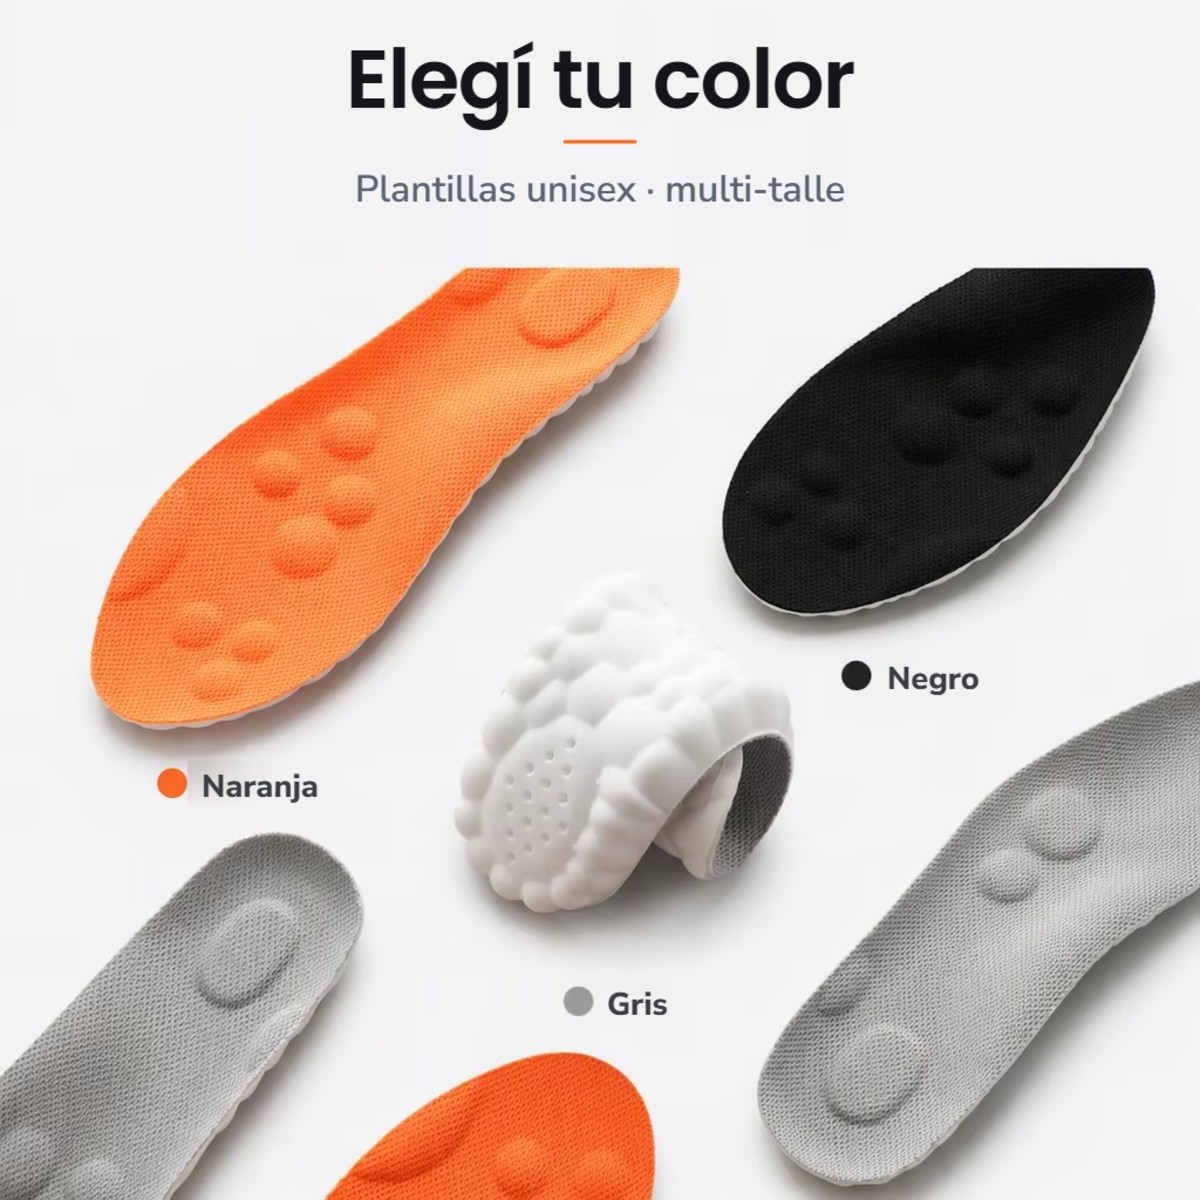
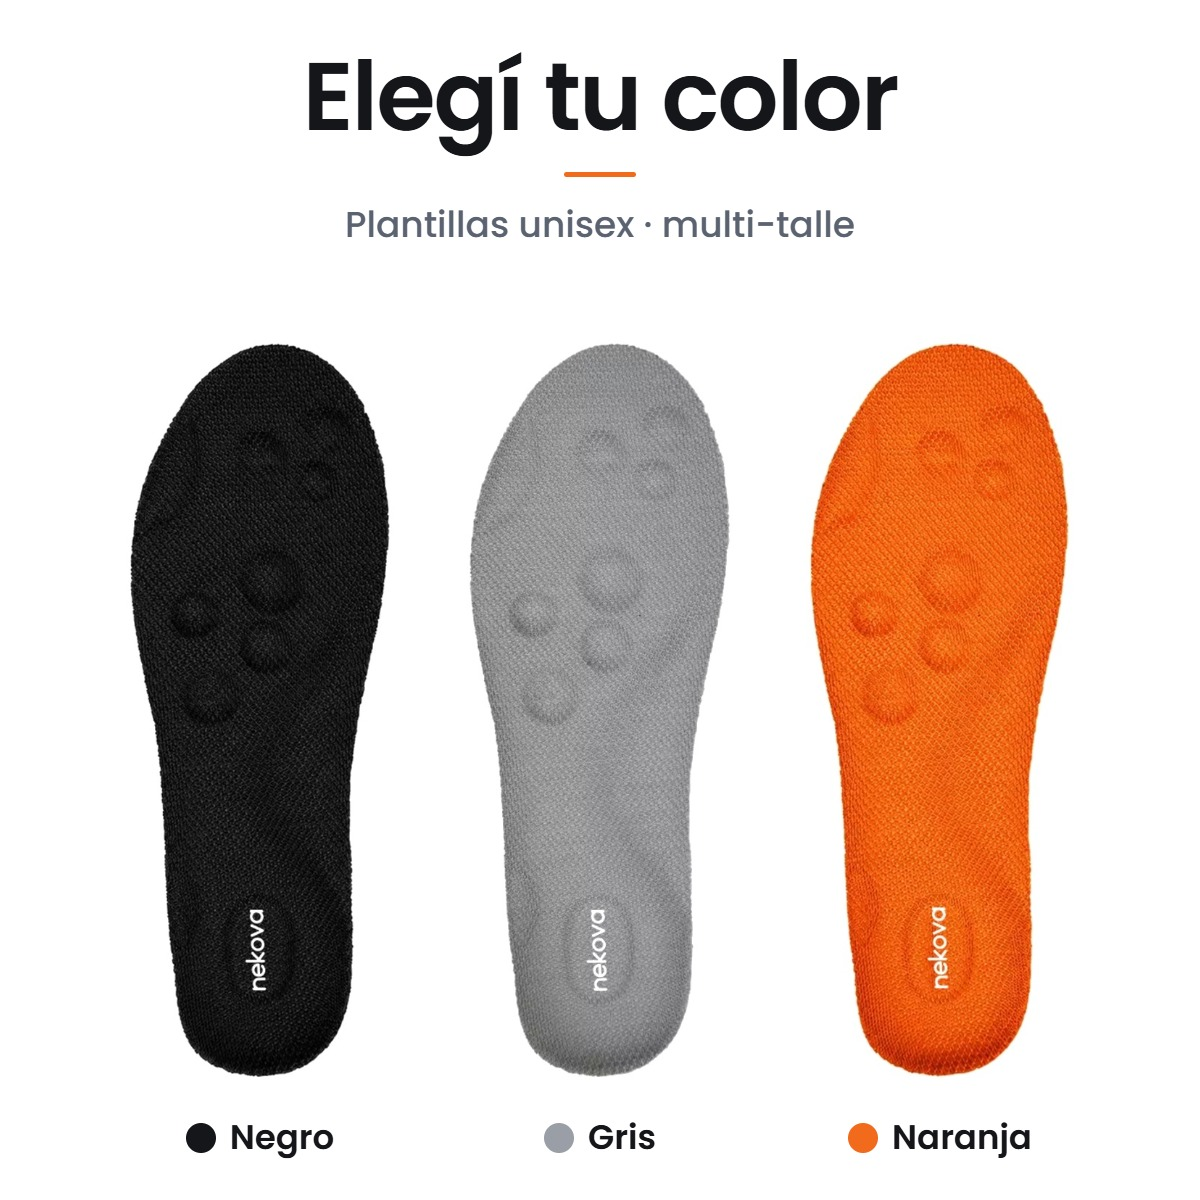
Insoles: aligned cover and branded "Elegí tu color" back in the gallery

diff --git a/CLAUDE.md b/CLAUDE.md
@@ -104,6 +104,6 @@ Hablar de **comodidad, apoyo y descanso**; no prometer resultados de salud ("ali
 
 Variantes: con más de una variante se muestra el selector (`[data-premium-variant-picker]`, radios `name="id"`). Si la opción se llama Color, cada variante es un círculo de color con el nombre en tooltip (hover/foco) y el nombre elegido junto a la etiqueta; el color sale del swatch de Shopify o, si no hay, de un mapa por nombre (`case variant_color_handle`: gris, azul-marino, negro, beige…; agregar ahí colores nuevos). Nombre desconocido = pill de texto. Al cambiar de variante, el JS muestra su imagen (evento `premium:show-image`), actualiza la etiqueta y `?variant=`. Imagen por variante: `variant.featured_media` en Shopify; si el producto tiene `nk_variant_images`, esa regla manda (cojín: azul → 02, resto → 01; tapones: blanco → 03, resto → 01).
 
-**Plantillas Nekova Confort** (título visible; handle `plantillas-multitalle`; no usar "Plantilla Nube": es marca de Tiendeca, competidor, content_key `plantillas`): dos opciones, **Color** (Negro / Gris / Naranja) y **Talle** (`35 al 40` / `41 al 46`, recortables). Con más de una opción, `nekova-product` muestra un selector por opción (`[data-nk-multi-picker]`: radios por opción + `input[name=id]` oculto; el JS busca la variante en el JSON `[data-nk-variants]` y desactiva el botón si la combinación no tiene stock); el hex de cada color sale de `snippets/nekova-color-hex.liquid` (mismo mapa que color-dot y el selector simple). Precios por cantidad: `nk_tiers` (`cantidad::etiqueta::precio unitario||…`, hoy 1 par 7.000, 2 pares 5.000 c/u, 3 o más 2.000 c/u) se muestra bajo el precio y al tocar una opción cambia la cantidad; el descuento real son dos descuentos automáticos de Shopify (monto fijo por artículo con mínimo de 2 y de 3 unidades, sin combinar). Devolución: sin usar ni recortar. Imágenes (en este orden): `product-media-plantillas-00` (portada: base blanca + negra, gris y naranja con el logo nekova en el talón), `-negro` / `-gris` / `-naranja` (una por color, con logo; el selector las muestra vía `nk_variant_images`), `-08` (foto con raqueta), `-01` (colores, sin logo, ya no está en la galería), `-05` (rebote), `-06` (capas), `-07` (talón en U), `-08` (foto) y `-10` (guía de talles propia); `-11` es el render sin texto, para la portada de la home; traducidas de las del proveedor.
+**Plantillas Nekova Confort** (título visible; handle `plantillas-multitalle`; no usar "Plantilla Nube": es marca de Tiendeca, competidor, content_key `plantillas`): dos opciones, **Color** (Negro / Gris / Naranja) y **Talle** (`35 al 40` / `41 al 46`, recortables). Con más de una opción, `nekova-product` muestra un selector por opción (`[data-nk-multi-picker]`: radios por opción + `input[name=id]` oculto; el JS busca la variante en el JSON `[data-nk-variants]` y desactiva el botón si la combinación no tiene stock); el hex de cada color sale de `snippets/nekova-color-hex.liquid` (mismo mapa que color-dot y el selector simple). Precios por cantidad: `nk_tiers` (`cantidad::etiqueta::precio unitario||…`, hoy 1 par 17.000, 2 pares 15.000 c/u, 3 o más 12.000 c/u) se muestra bajo el precio y al tocar una opción cambia la cantidad; el descuento real son dos descuentos automáticos de Shopify (monto fijo por artículo con mínimo de 2 y de 3 unidades, sin combinar). Devolución: sin usar ni recortar. Imágenes (en este orden): `product-media-plantillas-00` (portada: negra, gris y naranja alineadas con el logo nekova en el talón y la base blanca acostada abajo), `-01` ("Elegí tu color": título y las tres plantillas con logo y su nombre), `-negro` / `-gris` / `-naranja` (una por color, con logo; el selector las muestra vía `nk_variant_images`), `-08` (foto con raqueta), `-05` (rebote), `-06` (capas), `-07` (talón en U) y `-10` (guía de talles propia); `-11` es el render sin texto, para la portada de la home; traducidas de las del proveedor. La portada y `-01` se arman con `-negro/-gris/-naranja` (la plantilla de color ya está alineada en las tres), así quedan parejas.
 
 Imágenes de los tapones: `product-media-tapones-01..05.jpg` (01 es la foto del estuche con el texto "LOGO" del proveedor borrado) y `product-media-tapones-vida-01..03.jpg` (dormir, oficina, recital; recortes 3:2 de la infografía). No usar las imágenes del proveedor con las marcas "Quiet" o "Enjrokj". Reemplazar por fotos propias cuando esté el producto.
